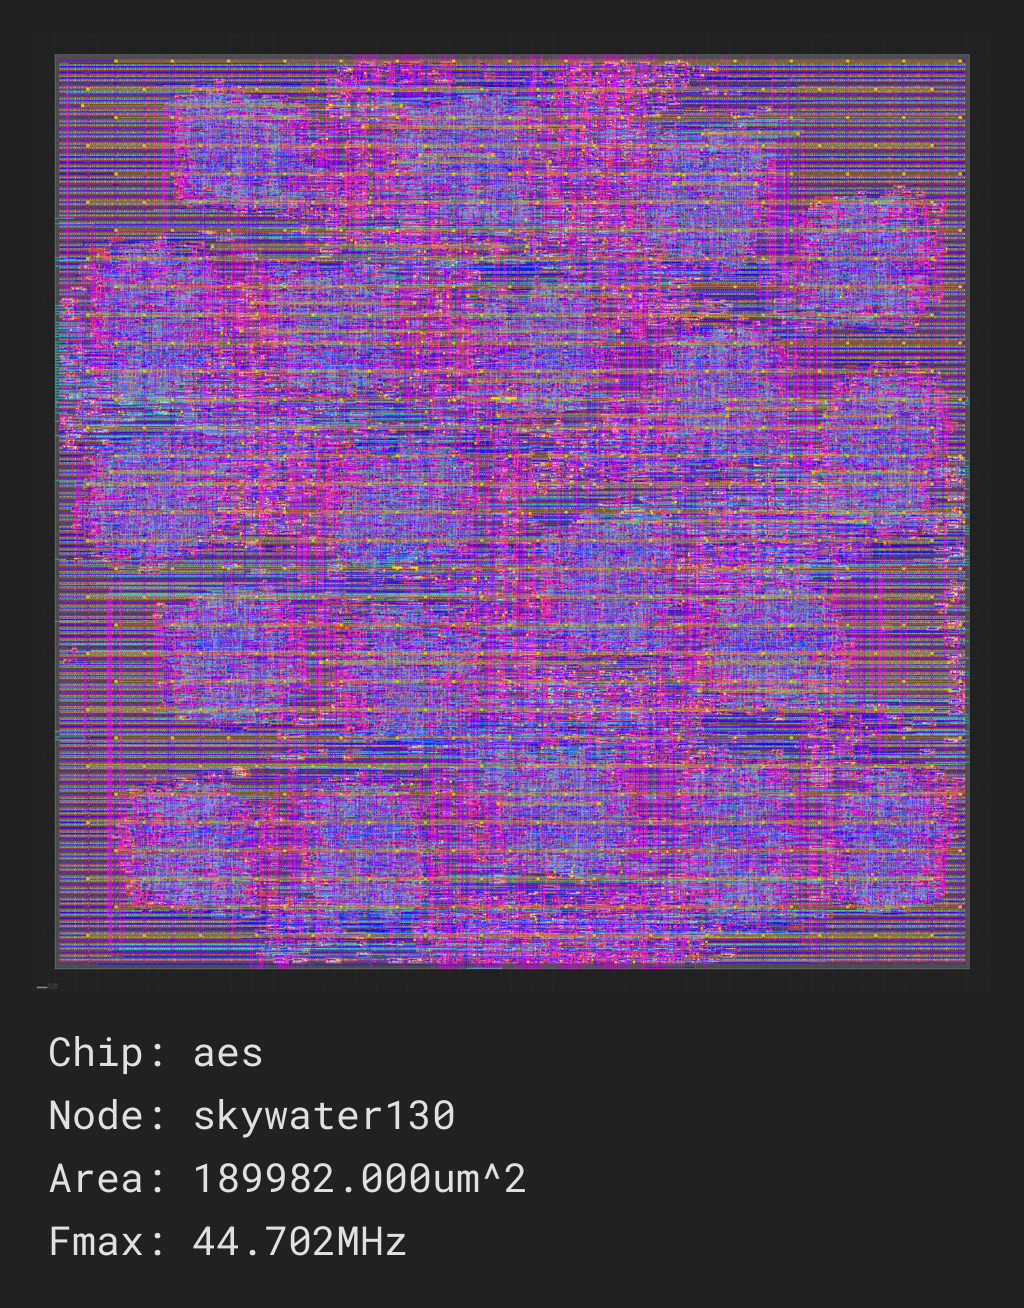
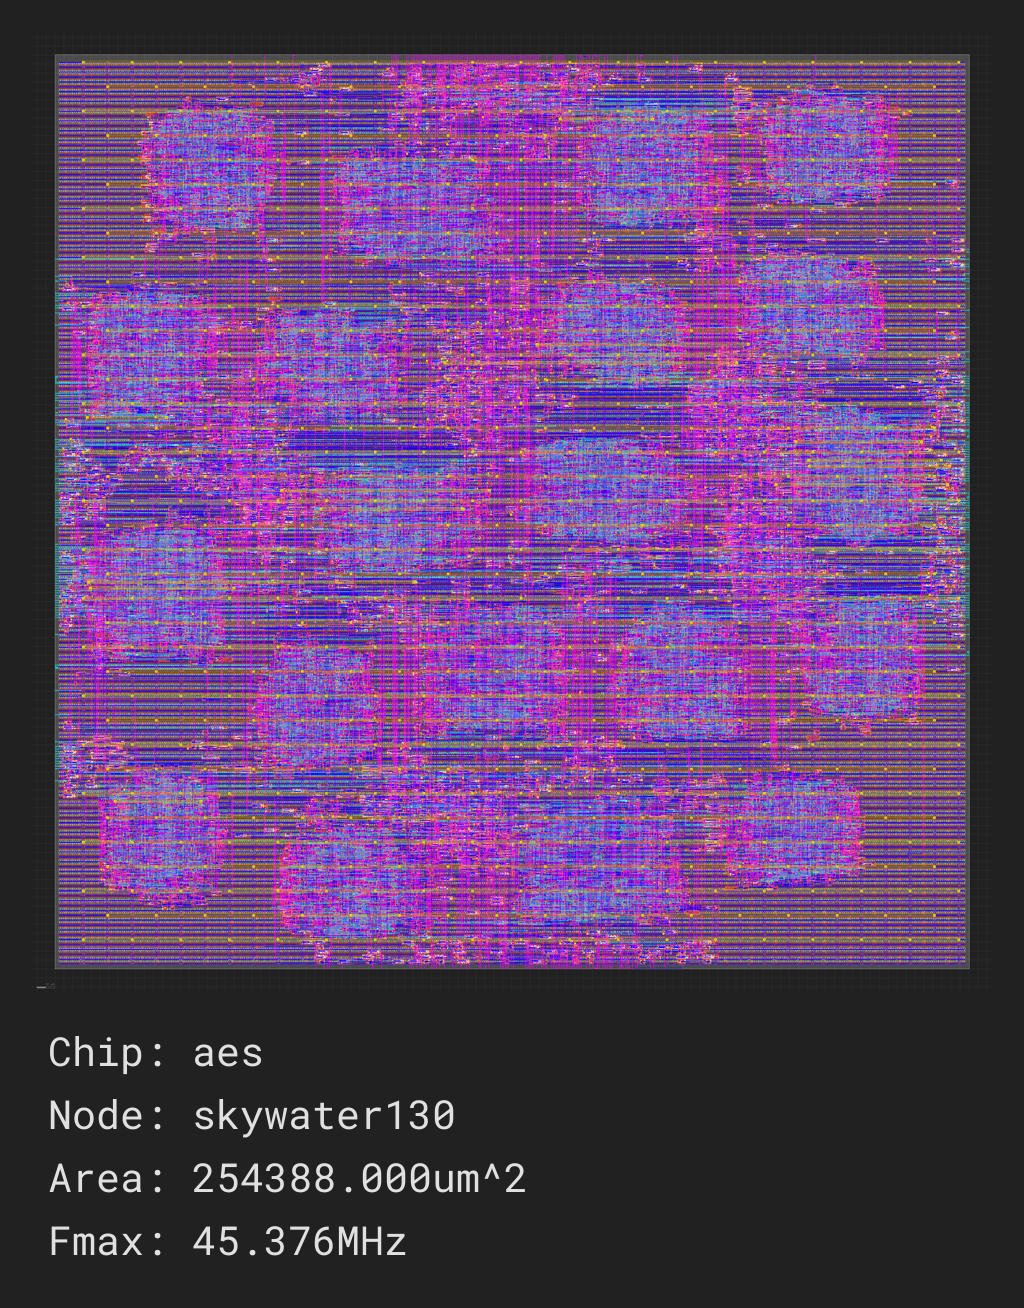
update aes skywater130 setup

diff --git a/scgallery/designs/aes/aes.py b/scgallery/designs/aes/aes.py
@@ -45,11 +45,11 @@ def setup(target=asap7_demo):
 
         chip.set('tool', 'openroad', 'task', 'place', 'var', 'place_density', '0.65')
     elif mainlib.startswith('sky130'):
-        chip.set('constraint', 'density', 40)
+        chip.set('constraint', 'density', 30)
         chip.set('constraint', 'aspectratio', 1)
         chip.set('constraint', 'coremargin', 2)
 
-        chip.set('tool', 'openroad', 'task', 'place', 'var', 'place_density', '0.65')
+        chip.set('tool', 'openroad', 'task', 'place', 'var', 'place_density', '0.50')
     elif mainlib == 'nangate45':
         chip.set('tool', 'openroad', 'task', 'place', 'var', 'place_density', '0.65')
 
